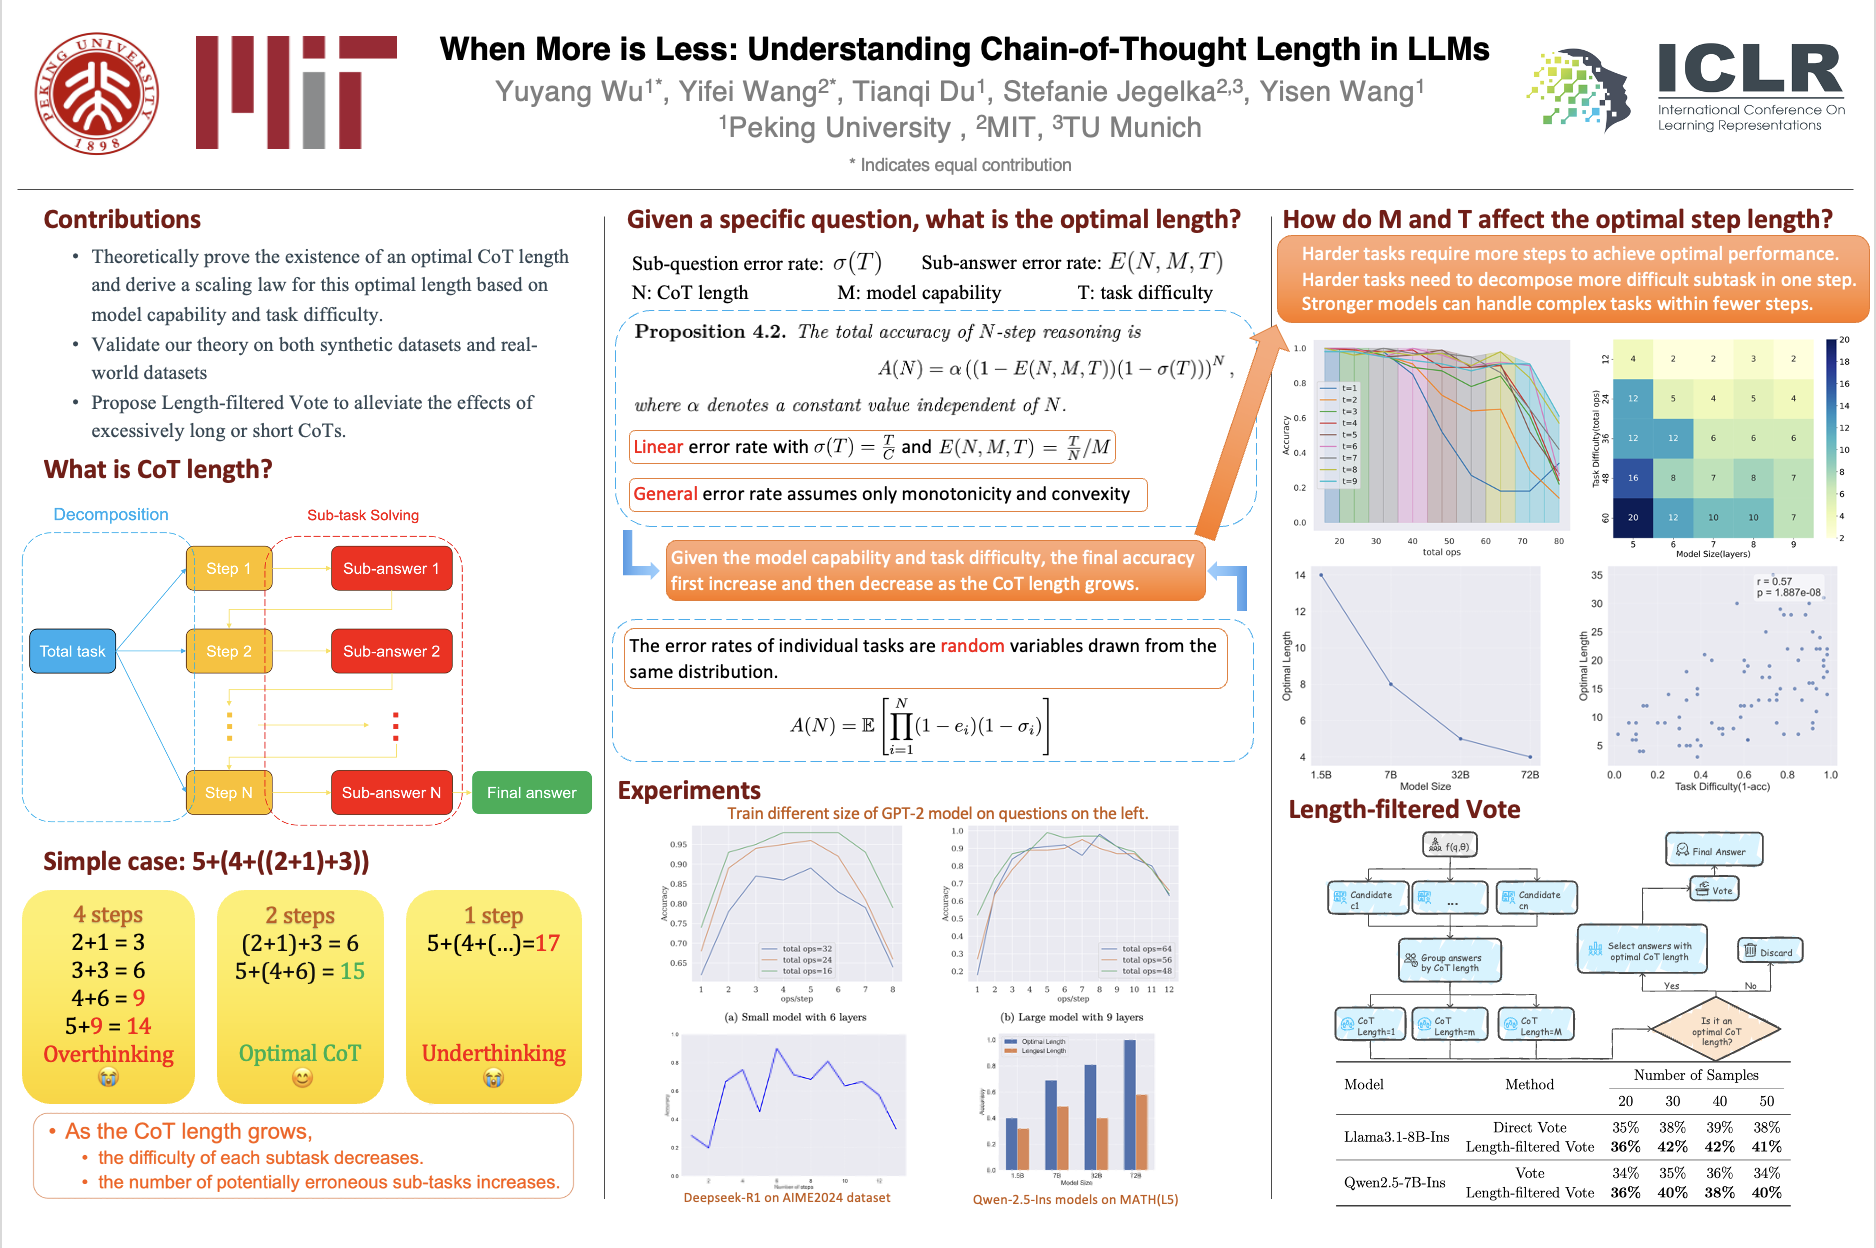
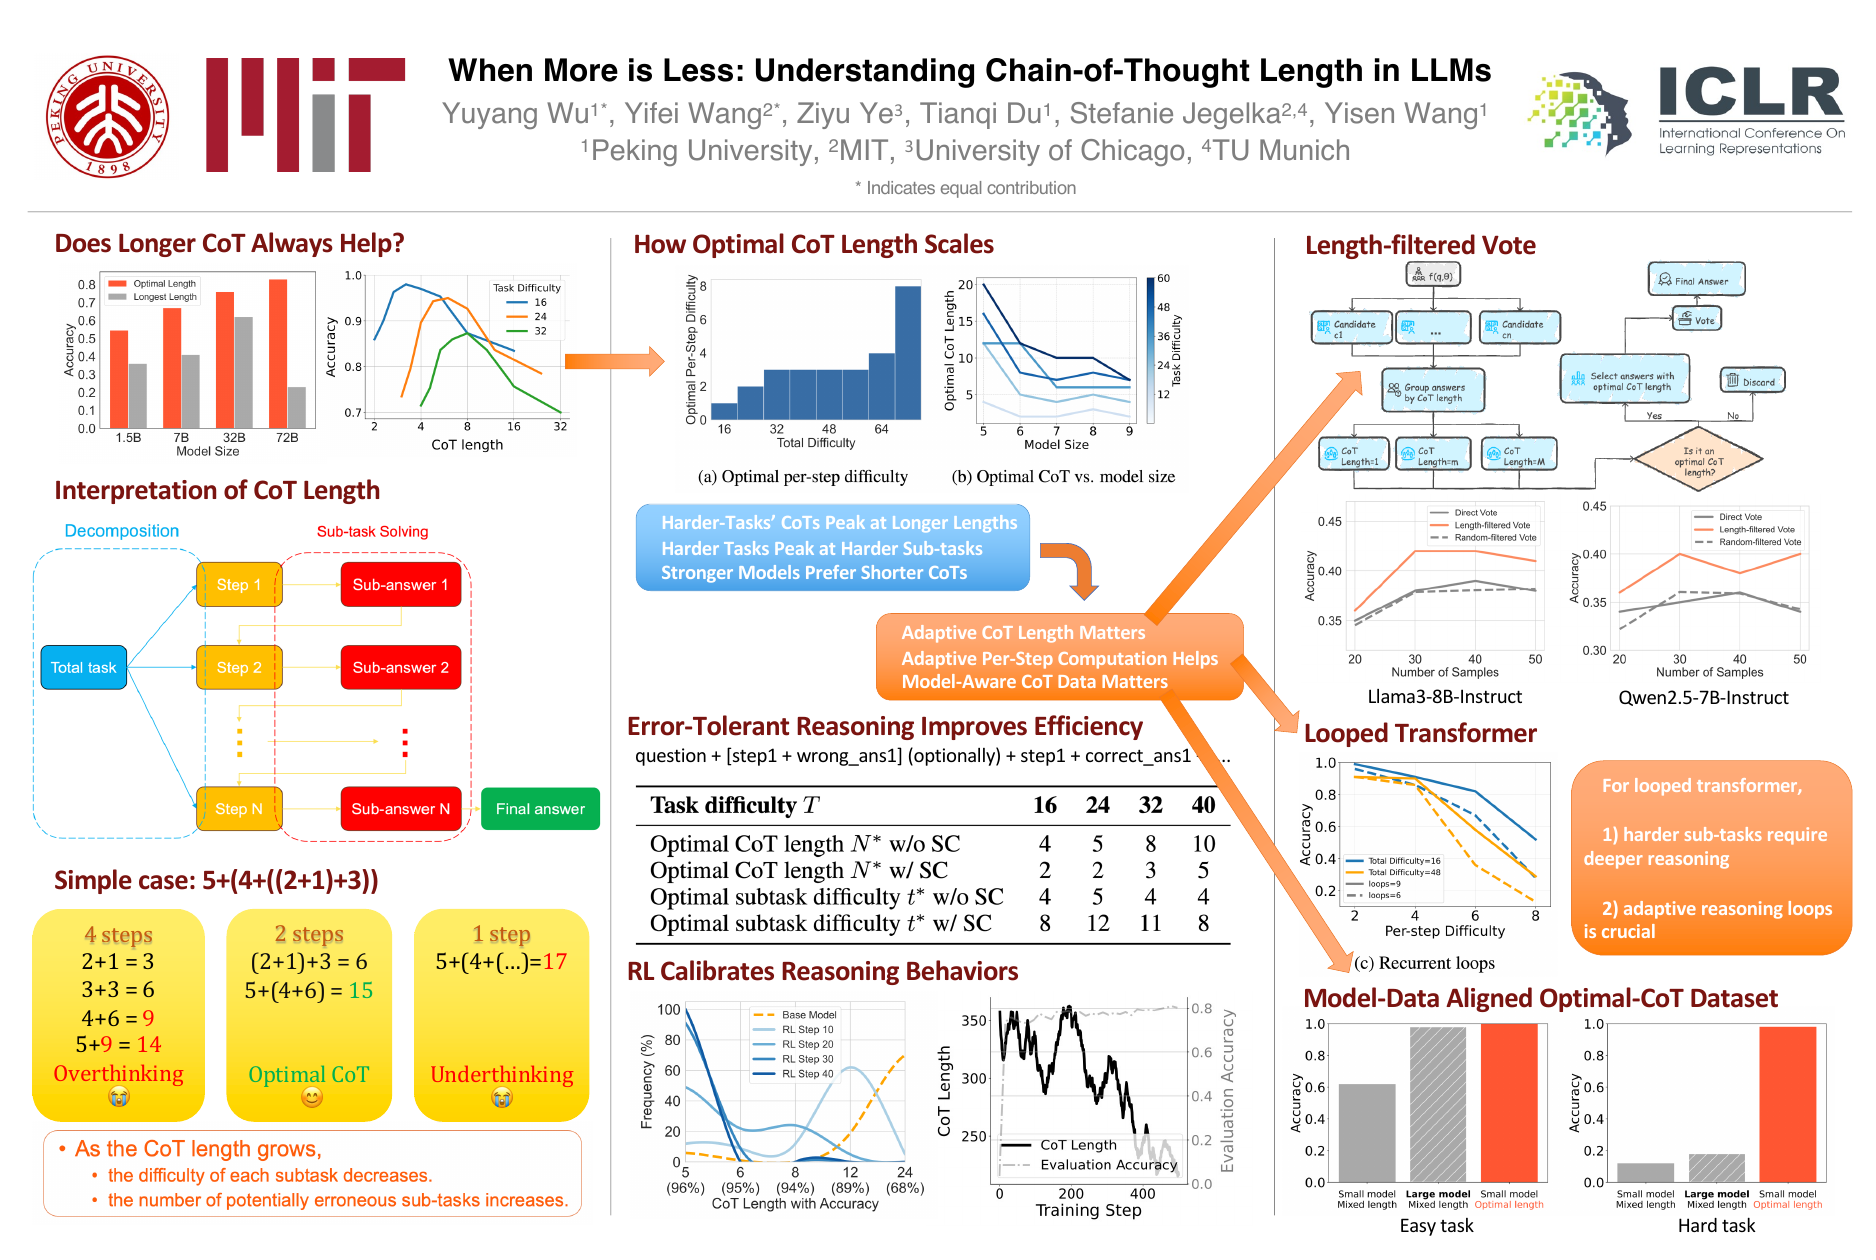
Update academic profile, awards, and publication visuals

diff --git a/assets/css/main.scss b/assets/css/main.scss
@@ -55,7 +55,13 @@
         display: flex;
         width: 100%;
         order: 2;
+        .paper-visual {
+            width: 100%;
+            max-width: 400px;
+        }
         img {
+            display: block;
+            width: 100%;
             max-width: 400px;
             box-shadow: 3px 3px 6px #888;
             object-fit: cover;
@@ -87,6 +93,49 @@
 
 }
 
+.venue-badge {
+    --venue-accent: #e85d3f;
+    --venue-accent-soft: rgba(232, 93, 63, 0.16);
+    display: inline-flex;
+    align-items: center;
+    gap: 0.45rem;
+    margin: 0 0 0.75rem;
+    padding: 0.42rem 0.7rem;
+    border: 1px solid #dfe5ee;
+    border-radius: 999px;
+    color: #273142;
+    background: linear-gradient(135deg, #ffffff 0%, #f4f7fb 100%);
+    box-shadow: 0 2px 8px rgba(31, 42, 55, 0.1);
+    font-size: 0.78rem;
+    font-weight: 800;
+    letter-spacing: 0.035em;
+    line-height: 1;
+    white-space: nowrap;
+}
+
+.venue-badge__mark {
+    width: 0.48rem;
+    height: 0.48rem;
+    flex: 0 0 auto;
+    border-radius: 50%;
+    background: var(--venue-accent);
+    box-shadow: 0 0 0 3px var(--venue-accent-soft);
+}
+
+.venue-badge__year {
+    margin-left: 0.1rem;
+    padding-left: 0.48rem;
+    border-left: 1px solid #d7dee8;
+    color: #6b7280;
+    font-weight: 700;
+    letter-spacing: 0.02em;
+}
+
+.venue-badge--neurips {
+    --venue-accent: #4f63d8;
+    --venue-accent-soft: rgba(79, 99, 216, 0.16);
+}
+
 $scroll_offset : 2em;
 h1:before, .anchor:before { 
     content: ''; 
@@ -95,15 +144,4 @@ h1:before, .anchor:before {
     width: 0; 
     height: $scroll_offset; 
     margin-top: -$scroll_offset;
-}
-
-.badge {
-    padding-left: 1rem;
-    padding-right: 1rem;
-    position: absolute;
-    margin-top: .5em;
-    margin-left: -.5em;
-    color: white;
-    background-color: #00369f;
-    font-size: .8em;
 }

diff --git a/_includes/author-profile.html b/_includes/author-profile.html
@@ -65,7 +65,7 @@
         <li><a href="https://bitbucket.org/{{ author.bitbucket }}"><i class="fab fa-fw fa-bitbucket" aria-hidden="true"></i> Bitbucket</a></li>
       {% endif %}
       {% if author.github %}
-        <li><a href="https://github.com/{{ author.github }}"><i class="fab fa-fw fa-github" aria-hidden="true"></i> Github</a></li>
+        <li><a href="https://github.com/{{ author.github }}"><i class="fab fa-fw fa-github" aria-hidden="true"></i> GitHub</a></li>
       {% endif %}
       {% if author.stackoverflow %}
         <li><a href="https://www.stackoverflow.com/users/{{ author.stackoverflow }}"><i class="fab fa-fw fa-stack-overflow" aria-hidden="true"></i> Stackoverflow</a></li>

diff --git a/_includes/head.html b/_includes/head.html
@@ -14,6 +14,3 @@
 <link rel="stylesheet" href="assets/css/main.css">
 
 <meta http-equiv="cleartype" content="on">
-<head>
-  <base target="_blank">
-</head>

diff --git a/_pages/about.md b/_pages/about.md
@@ -17,73 +17,52 @@ redirect_from:
 
 <span class='anchor' id='about-me'></span>
 
-My research interest lies in developing a mathematical understanding of LLMs, interpreting their diverse behaviors, and providing principled theoretical guidance for the design and optimization of system-2 reasoning agents.
+My research focuses on developing a mathematical understanding of LLMs, interpreting their diverse behaviors, and deriving principled guidance for the design and optimization of System 2 reasoning agents.
 
-Currently, my work is centered on enhancing the reasoning capabilities of LLMs from two primary perspectives: more precise data selection and the exploration of broader inference structures.
+My current work aims to improve LLM reasoning in two directions: more precise data selection and richer inference-time structures.
 You can find my publications on <a href='https://scholar.google.com/citations?hl=en&user=f7KQvukAAAAJ'>Google Scholar <img src="https://img.shields.io/endpoint?url={{ url | url_encode }}&logo=Google%20Scholar&labelColor=f6f6f6&color=9cf&style=flat&label=citations"></a>.
 
-<span style="color: #f4b400">I am actively seeking PhD opportunities for Fall 2026!!!</span>
+<span style="color: #f4b400">I am actively seeking PhD opportunities for Fall 2027.</span>
 
 
 # 🔥 News
-- *2026.01*: &nbsp;🎉 Our paper "When More is Less: Understanding Chain-of-Thought Length in LLMs" has been accepted to **ICLR 2026**!
-- *2025.04*: &nbsp;🏆 Our recent work "When More is Less: Understanding Chain-of-Thought Length in LLMs" has been awarded the <span style="color: red">Best Paper Runner-up Award</span> at ICLR 2025 Workshop on Reasoning and Planning for LLMs!
-- *2025.04*: &nbsp;🎤 I will present an oral talk on our recent work "When More is Less: Understanding Chain-of-Thought Length in LLMs" at ICLR 2025 Workshop on Reasoning and Planning for LLMs!
-- *2024.12*: &nbsp;🍁 I attended NuerIPS 2024 at Vancouver and illustrated our poster.
-- *2024.10*: &nbsp;🎉 Our paper "A Theoretical Understanding of Self-Correction through In-context Alignment" has been accepted to **NeurIPS 2024**!
-- *2024.06*: &nbsp;🏆 "A Theoretical Understanding of Self-Correction through In-context Alignment" received the <span style="color: red">Best Paper Award</span> at ICML Workshop on In-context Learning!
+- *2026.01*: &nbsp;🎉 Our paper "When More is Less: Understanding Chain-of-Thought Length in LLMs" has been accepted at **ICLR 2026**!
+- *2025.04*: &nbsp;🏆 Our work "When More is Less: Understanding Chain-of-Thought Length in LLMs" received the <span style="color: red">Best Paper Runner-Up Award</span> at the ICLR 2025 Workshop on Reasoning and Planning for Large Language Models!
+- *2025.04*: &nbsp;🎤 I will give an oral presentation on our work "When More is Less: Understanding Chain-of-Thought Length in LLMs" at the ICLR 2025 Workshop on Reasoning and Planning for Large Language Models!
+- *2024.12*: &nbsp;🍁 I attended NeurIPS 2024 in Vancouver and presented our poster.
+- *2024.10*: &nbsp;🎉 Our paper "A Theoretical Understanding of Self-Correction through In-context Alignment" has been accepted at **NeurIPS 2024**!
+- *2024.06*: &nbsp;🏆 "A Theoretical Understanding of Self-Correction through In-context Alignment" received the <span style="color: red">Best Paper Award</span> at the ICML 2024 Workshop on In-Context Learning!
 
 # 📝 Publications 
 
-(*: Equal Contribution)
+(* denotes equal contribution.)
 
-<style>
-.badge-container {
-    display: flex;
-    flex-direction: column;
-    gap: 5px;
-    margin-bottom: 10px;
-}
-.badge {
-    display: inline-block;
-    padding: 0.25em 0.4em;
-    font-size: 75%;
-    font-weight: 700;
-    line-height: 1;
-    text-align: center;
-    white-space: nowrap;
-    vertical-align: baseline;
-    border-radius: 0.25rem;
-}
-.badge.neurips {
-    background-color: #4285f4;
-    color: white;
-}
-.badge.icml {
-    background-color: #f4b400;
-    color: black;
-}
-</style>
-
-<div class='paper-box'><div class='paper-box-image'><div><div class="badge">ICLR 2026</div><img src='images/cot_poster.png' alt="cot_poster" width="100%"></div></div>
+<div class='paper-box'><div class='paper-box-image'><div class="paper-visual">
+<div class="venue-badge venue-badge--iclr" aria-label="ICLR 2026">
+    <span class="venue-badge__mark" aria-hidden="true"></span>
+    <span class="venue-badge__name">ICLR</span>
+    <span class="venue-badge__year">2026</span>
+</div>
+<img src='images/cot_poster.png' alt="Poster for When More is Less" width="100%"></div></div>
 <div class='paper-box-text' markdown="1">
 
-[When More is Less: Understanding Chain-of-Thought Length in LLMs](https://arxiv.org/abs/2502.07266)
+[When More is Less: Understanding Chain-of-Thought Length in LLMs](https://openreview.net/forum?id=6QDFsYxtI1)
 
 **Yuyang Wu\***, Yifei Wang\*, Ziyu Ye, Tianqi Du, Stefanie Jegelka, Yisen Wang
 
-<!-- [**Paper**](https://arxiv.org/abs/2502.07266) -->
-- <span style="color: red">Best Paper Runner-Up Award at ICLR 2025 Workshop on Reasoning and Planning for Large Language Models.（Cited 100+ times）</span>
-- We revealed two counterintuitive findings: longer CoTs are not always better, and during reinforcement learning, models exhibit a **simplicity bias**, converging to the shortest CoT they can effectively manage.
+<!-- [**Paper**](https://openreview.net/forum?id=6QDFsYxtI1) -->
+- <span style="color: red">Best Paper Runner-Up Award at the ICLR 2025 Workshop on Reasoning and Planning for Large Language Models (200+ citations)</span>
+- We revealed two counterintuitive findings: longer CoTs are not always better, and during reinforcement learning, models exhibit a **simplicity bias**, converging to the shortest effective CoT.
 </div>
 </div>
 
-<div class='paper-box'><div class='paper-box-image'><div>
-<div class="badge-container">
-    <div class="badge neurips">NeurIPS 2024</div>
-    <!-- <div class="badge icml">Best Paper Award at ICML-W'24</div> -->
+<div class='paper-box'><div class='paper-box-image'><div class="paper-visual">
+<div class="venue-badge venue-badge--neurips" aria-label="NeurIPS 2024">
+    <span class="venue-badge__mark" aria-hidden="true"></span>
+    <span class="venue-badge__name">NeurIPS</span>
+    <span class="venue-badge__year">2024</span>
 </div>
-<img src='images/self_correction.png' alt="self_correction" width="100%">
+<img src='images/self_correction.png' alt="Overview of in-context self-correction" width="100%">
 </div></div>
 <div class='paper-box-text' markdown="1">
 
@@ -92,31 +71,32 @@ You can find my publications on <a href='https://scholar.google.com/citations?hl
 Yifei Wang\*, **Yuyang Wu\***, Zeming Wei, Stefanie Jegelka, Yisen Wang
 
 <!-- [**Paper**](https://openreview.net/pdf?id=OtvNLTWYww) -->
-- <span style="color: red">Best Paper Award at ICML 2024 Workshop on In-context Learning</span>
-- I established the first rigorous understanding of LLMs' self-correction ability and developed a simple and efficient self-correction algorithm (CaC) that shows significant improvements across different tasks.
+- <span style="color: red">Best Paper Award at the ICML 2024 Workshop on In-Context Learning</span>
+- We provided the first rigorous theoretical account of LLM self-correction and developed CaC, a simple and efficient self-correction algorithm that achieves significant improvements across multiple tasks.
 </div>
 </div>
 
 # 🎖 Honors and Awards
-- *2025.04* Best Paper Runner-up Award at ICLR 2025 Workshop on Reasoning and Planning for LLMs
-- *2024.06* Best Paper Award at ICML 2024 Workshop on In-context Learning
+- *2026.06* Peking University Outstanding Undergraduate Thesis Award (Top 10 in the School of Electronics Engineering and Computer Science)
+- *2025.04* Best Paper Runner-Up Award at the ICLR 2025 Workshop on Reasoning and Planning for Large Language Models
+- *2024.06* Best Paper Award at the ICML 2024 Workshop on In-Context Learning
 - *2021.12* Silver Medal, Chinese Mathematical Olympiad
 
 # 🎤 Talks
-- *2025.04* "When More is Less: Understanding Chain-of-Thought Length in LLMs", Oral presentation at ICLR 2025 Workshop on Reasoning and Planning for Large Language Models, Singapore
+- *2025.04* "When More is Less: Understanding Chain-of-Thought Length in LLMs" - Oral presentation at the ICLR 2025 Workshop on Reasoning and Planning for Large Language Models in Singapore
 
 # 📖 Education
-- *2022.09 - Present*, **Peking University**, BS in Computer Science
+- *2022.09 - 2026.07*, **Peking University**, B.S. in Computer Science
 
 # 💻 Research Experience
-- *2023.10 - Present*, Research Intern at ZERO Lab, Peking University
-  - Researching the in-context abilities in LLMs, including self-correction and chain-of-thought.
-  - Collaborating with Postdoc [Yifei Wang (MIT)](https://yifeiwang77.com) and advised by Prof. [Yisen Wang (PKU)](https://yisenwang.github.io)
+- *2026.05 - Present*, Research Intern in Prof. Hao Peng's Group, **UIUC**
+  - Studying long-context capabilities through RoPE.
+  - Collaborating with [Yufeng Du](https://openreview.net/profile?id=~Yufeng_Du2) under the supervision of Prof. [Hao Peng](https://haopeng-nlp.github.io).
 
-- *2025.3 - 2025.6 (terminated due to non-academic political reasons)*, Research Intern at Sky Computing Lab, UC Berkeley 
-  - Researching on meta-reasoning ability in LLMs.
-  - Collaborating with [Dacheng Li](https://dachengli1.github.io) and advised by Prof. [Ion Stoica](https://people.eecs.berkeley.edu/~istoica/)
+- *2025.03 - 2025.06 (ended due to nonacademic circumstances)*, Research Intern at Sky Computing Lab, **UC Berkeley**
+  - Studied meta-reasoning capabilities in LLMs.
+  - Collaborated with [Dacheng Li](https://dachengli1.github.io) under the supervision of Prof. [Ion Stoica](https://people.eecs.berkeley.edu/~istoica/).
 
-# 💪 Skills
-- **Programming Languages**: Python(proficient), C++(proficient), C#, Core Skills (Git/Linux/TeX/etc.)
-- **Deep Learning Technologies**: Pytorch(proficient), CUDA parallel programming
+- *2023.10 - 2026.06*, Research Intern at ZERO Lab, **Peking University**
+  - Studied the in-context learning capabilities of LLMs, including self-correction and chain-of-thought reasoning.
+  - Collaborated with [Yifei Wang (MIT)](https://yifeiwang77.com) under the supervision of Prof. [Yisen Wang (PKU)](https://yisenwang.github.io).
